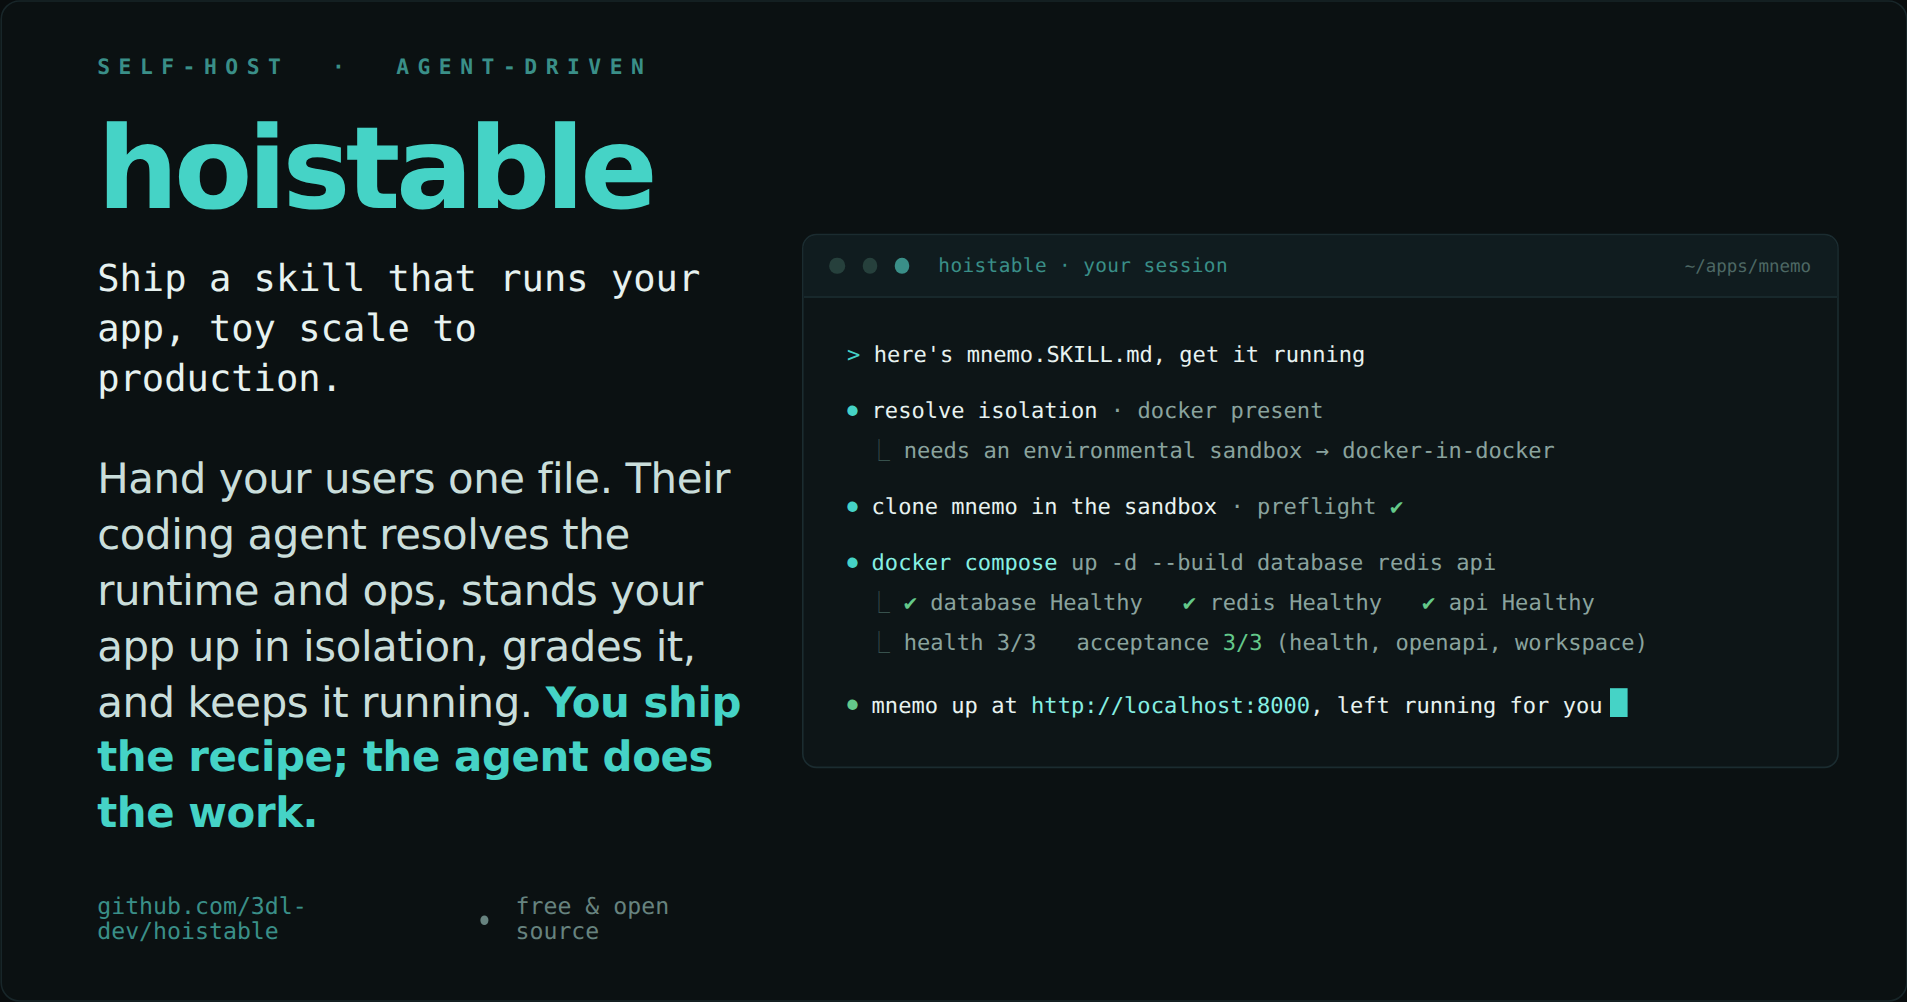
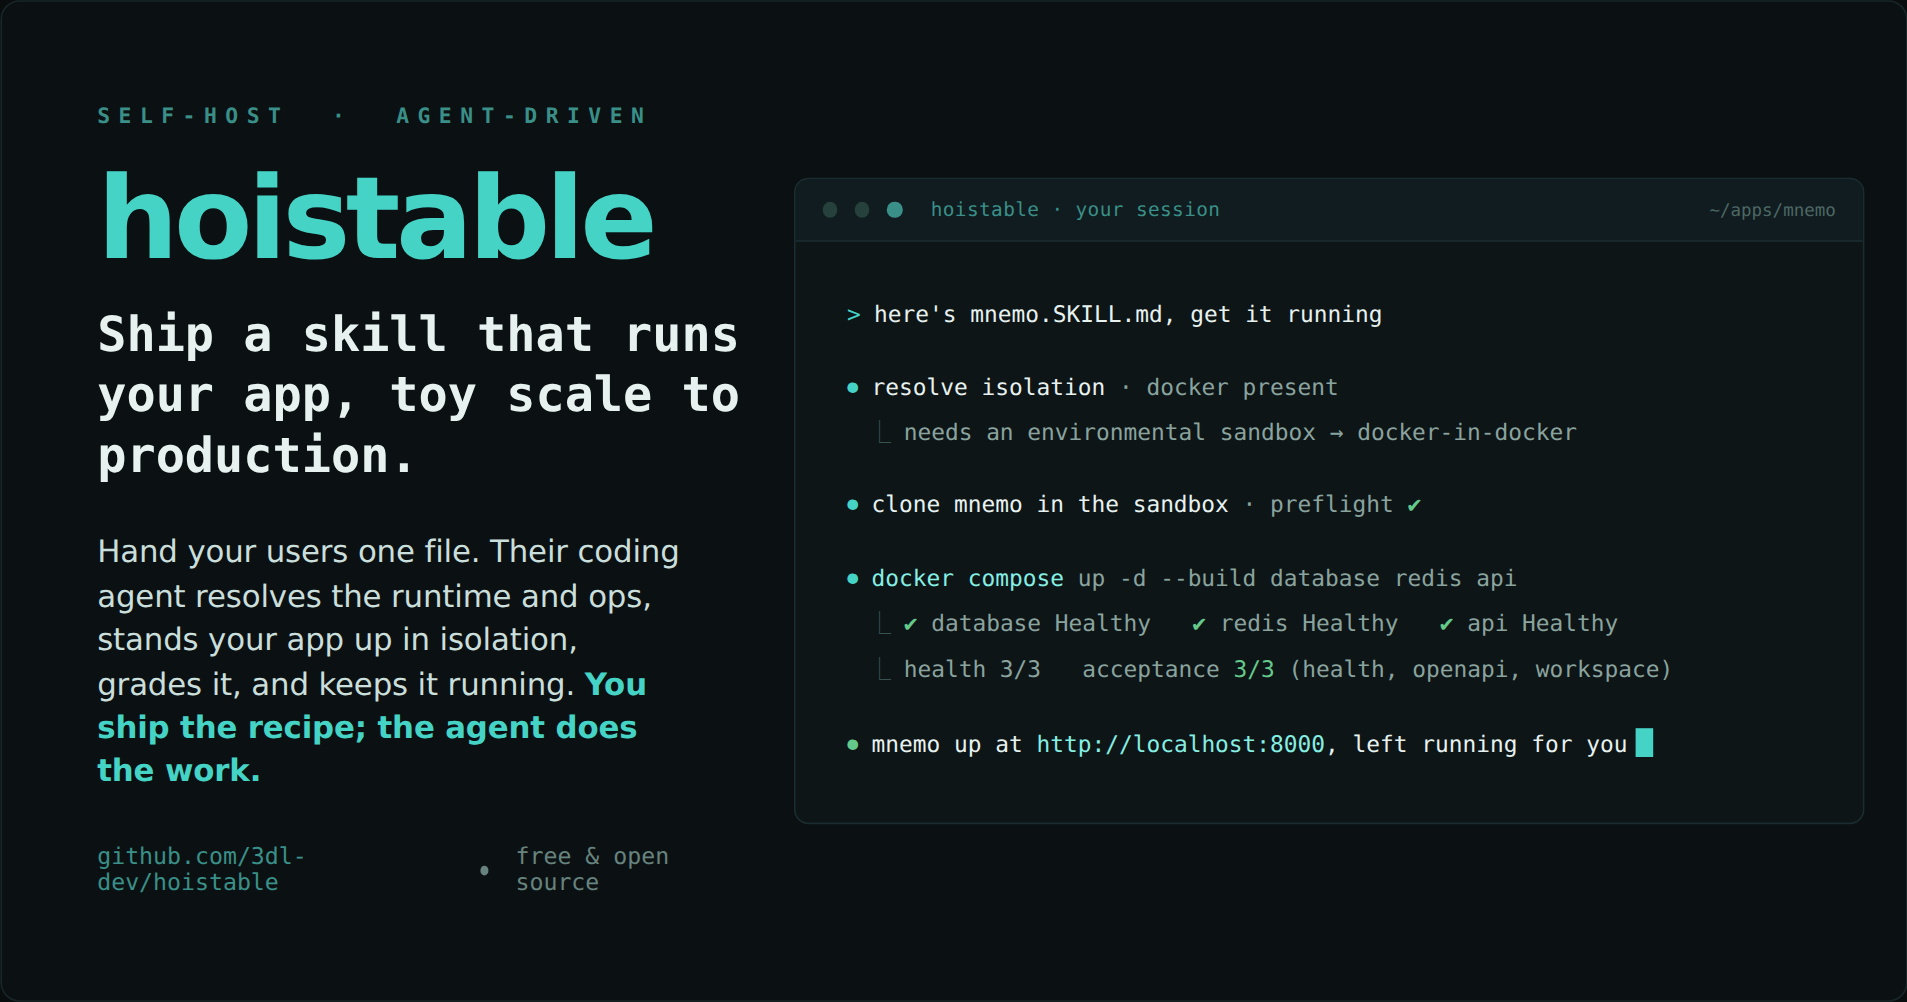
marketing: headline is the biggest copy, kicker smaller, bigger terminal window
Per review: 'Ship a skill that runs your app' is the line that says everything in the
fewest words, so it is now the largest copy (above the smaller 'Hand your users' kicker),
and the terminal window is enlarged (tighter outer padding, more internal room, more
line spread). Re-rendered static + animated.

diff --git a/docs/hoistable-hero.html b/docs/hoistable-hero.html
@@ -25,14 +25,14 @@
   .left{padding:0 2cqw 0 5cqw; display:flex; flex-direction:column; justify-content:center; height:100%}
   .eyebrow{font-size:1.12cqw; letter-spacing:.4em; text-transform:uppercase; color:var(--teal-dim); font-weight:600}
   .wordmark{font-family:var(--grotesque); font-weight:800; letter-spacing:-.04em; font-size:6cqw; line-height:.9; color:var(--teal); margin-top:2cqw}
-  .expand{font-size:1.95cqw; color:var(--cream); margin-top:1.8cqw; font-weight:500; max-width:34cqw; line-height:1.34}
-  .kicker{font-size:2.2cqw; line-height:1.33; color:#cadedb; font-weight:500; font-family:var(--grotesque); letter-spacing:-.01em; max-width:34cqw; margin-top:2.6cqw}
+  .expand{font-size:2.55cqw; color:var(--cream); margin-top:1.8cqw; font-weight:600; max-width:34cqw; line-height:1.26}
+  .kicker{font-size:1.62cqw; line-height:1.42; color:#cadedb; font-weight:500; font-family:var(--grotesque); letter-spacing:-.005em; max-width:31cqw; margin-top:2.2cqw}
   .kicker b{color:var(--teal); font-weight:700}
   .foot{display:flex; align-items:center; gap:1.4cqw; margin-top:2.7cqw; font-size:1.22cqw; color:var(--muted)}
   .foot .repo{color:var(--teal-dim)}
   .foot .dot{width:.5cqw;height:.5cqw;border-radius:50%;background:var(--muted)}
 
-  .right{display:grid; place-items:center; padding:2.4cqw 3.5cqw 2.4cqw 1cqw}
+  .right{display:grid; place-items:center; padding:1.1cqw 2.2cqw 1.1cqw .6cqw}
   .term{width:100%; border-radius:9px; overflow:hidden; background:var(--panel); border:1px solid var(--panel-edge)}
   .bar{display:flex; align-items:center; gap:.9cqw; padding:1cqw 1.4cqw; background:var(--panel-top); border-bottom:1px solid var(--panel-edge)}
   .led{width:.8cqw;height:.8cqw;border-radius:50%;background:#26403c}
@@ -40,18 +40,18 @@
   .bar .who{margin-left:.6cqw;font-size:1.02cqw;color:var(--teal-dim);letter-spacing:.02em}
   .bar .stat{margin-left:auto;font-size:.92cqw;color:#4d6864}
 
-  .body{padding:2.2cqw 2.3cqw 2.2cqw; font-size:1.16cqw; line-height:1.55}
-  .q{color:var(--cream); margin-top:1.35cqw}
+  .body{padding:2.9cqw 2.7cqw 2.9cqw; font-size:1.2cqw; line-height:1.75}
+  .q{color:var(--cream); margin-top:1.7cqw}
   .q:first-child{margin-top:0}
   .q .p{color:var(--teal); margin-right:.7cqw}
-  .call{color:var(--cream); margin-top:1.15cqw}
+  .call{color:var(--cream); margin-top:1.7cqw}
   .call .m{color:var(--teal); margin-right:.7cqw}
   .call .fn{color:var(--teal-bright)}
   .call .arg{color:var(--faint)}
   .res{color:var(--faint); margin-top:.3cqw; padding-left:1.1cqw}
   .res .b{color:#37514d; margin-right:.7cqw}
   .ok{color:var(--ok)}
-  .win{color:var(--cream); margin-top:1.35cqw; font-weight:500}
+  .win{color:var(--cream); margin-top:1.9cqw; font-weight:500}
   .win .m{color:var(--ok); margin-right:.7cqw; font-weight:400}
   .win .url{color:var(--teal-bright)}
   .cur{display:inline-block;width:.95cqw;height:1.55cqw;vertical-align:-.25cqw;background:var(--teal);margin-left:.4cqw;animation:blink 1.05s steps(1) infinite}
